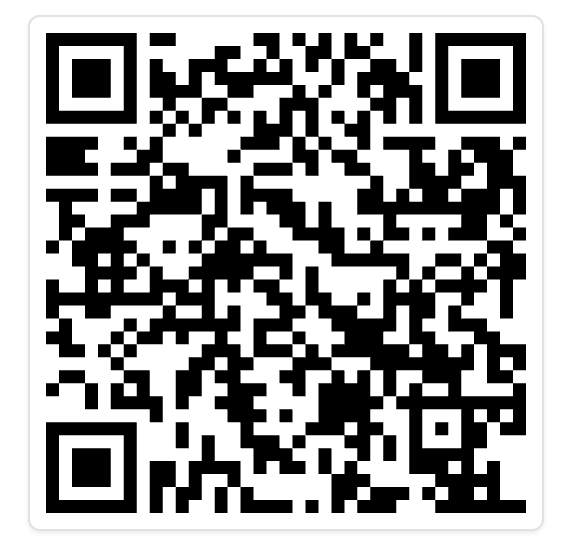
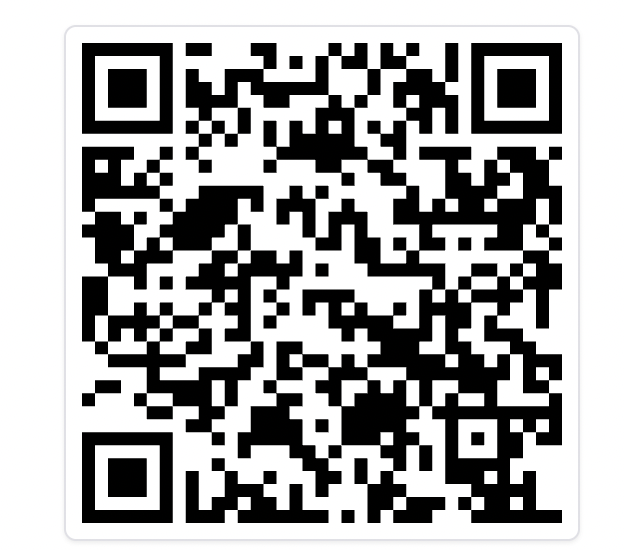
Install QR code and download link: the new Android build
public/mobile-app-qr.png now opens EAS build b2b223b7-cb52-4f15-b830-58b4204677cf,
and the popup's "Download the app" button links to the same build (decoded from
the QR so they always match). The image keeps its new 624 × 550 proportions.

diff --git a/components/home/AppDownload.tsx b/components/home/AppDownload.tsx
@@ -6,7 +6,7 @@ import { useT } from "@/lib/i18n";
 import { Dialog, DialogContent, DialogDescription, DialogTitle } from "@/components/ui/dialog";
 
 /** The Android build the QR code opens (EAS): the same link, for a click on desktop or a tap on a phone. */
-export const APP_DOWNLOAD_URL = "https://expo.dev/accounts/alaahamed/projects/shatably/builds/2196baf9-458d-4b6f-9417-0ba4962e9827";
+export const APP_DOWNLOAD_URL = "https://expo.dev/accounts/alaahamed/projects/shatably/builds/b2b223b7-cb52-4f15-b830-58b4204677cf";
 
 /** "Get the app" from the header: the same QR code and download link in a popup, on any page. */
 export function AppDownloadDialog({ open, onOpenChange }: { open: boolean; onOpenChange: (open: boolean) => void }) {
@@ -18,7 +18,7 @@ export function AppDownloadDialog({ open, onOpenChange }: { open: boolean; onOpe
         <DialogDescription className="text-sm text-slate-600">{t("Scan the code with your phone's camera to install the app.")}</DialogDescription>
         <div className="mx-auto rounded-2xl border border-slate-200 bg-white p-3 shadow-sm">
           {/* unoptimized: the original PNG, so lossy re-encoding never blurs the code's edges. */}
-          <Image src="/mobile-app-qr.png" alt={t("QR code to install the sha2ty mobile app")} width={208} height={199} className="size-52" unoptimized />
+          <Image src="/mobile-app-qr.png" alt={t("QR code to install the sha2ty mobile app")} width={208} height={183} className="h-auto w-52" unoptimized />
         </div>
         <p className="inline-flex items-center justify-center gap-1.5 text-xs font-medium text-slate-500">
           <Smartphone className="size-3.5" aria-hidden /> {t("Android")}
